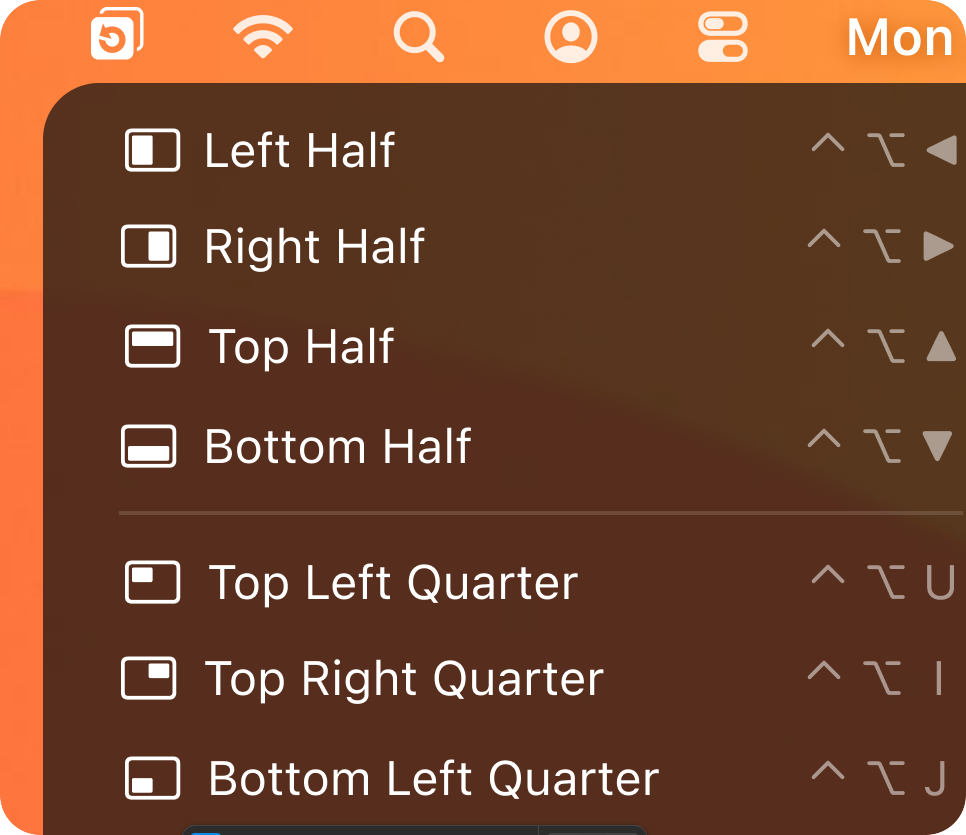
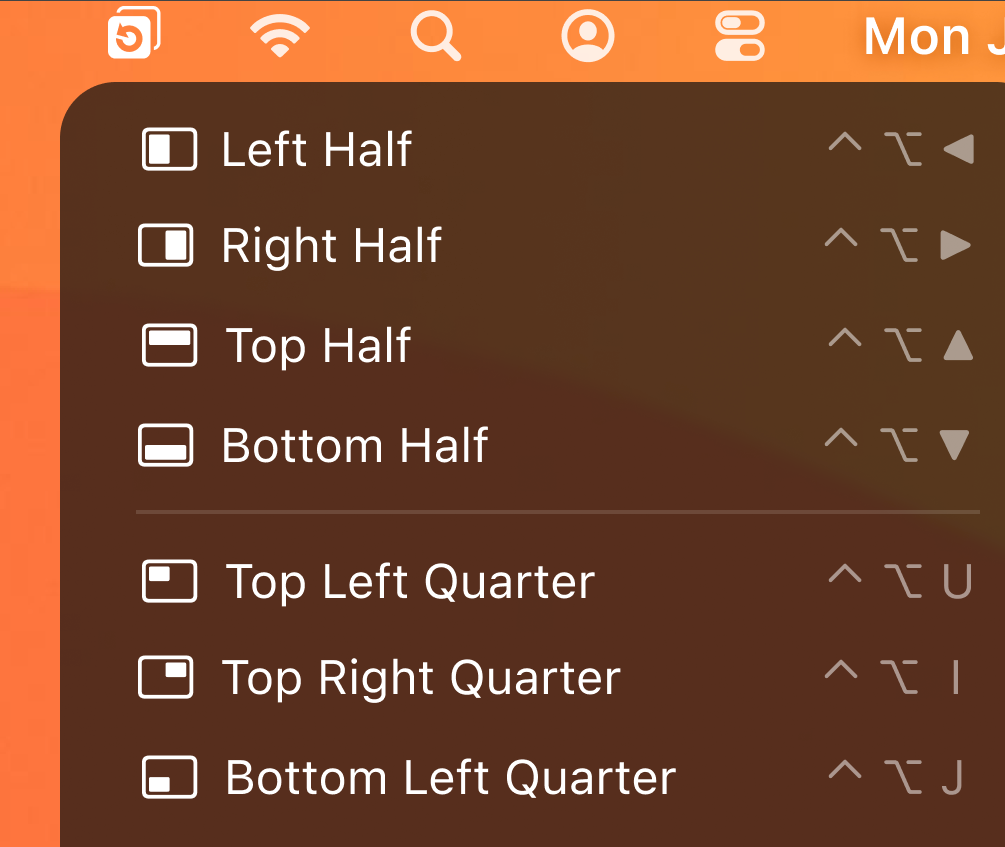
Refactor code structure for improved readability and maintainability

diff --git a/web/src/components/MenuBarSection.tsx b/web/src/components/MenuBarSection.tsx
@@ -7,7 +7,7 @@ export default function MenuBarSection() {
       eyebrow="Stays out of your way"
       heading={<>It lives in<br />your menu bar.</>}
       body="No dock clutter, no floating windows. Snapback sits quietly in your menu bar. Snap a window, switch a workspace, and get back to what you were doing — it never gets in the way."
-      imageSrc="/assets/hotkeys.png"
+      imageSrc="/assets/menu.png"
       imageAlt="Snapback menu bar dropdown"
     />
   );

diff --git a/web/src/components/FlexibilitySection.tsx b/web/src/components/FlexibilitySection.tsx
@@ -8,7 +8,7 @@ export default function FlexibilitySection() {
       eyebrow="Works your way"
       heading={<>Already have a<br />window manager?</>}
       body="Turn off snapping entirely and use Snapback just for workspaces. It plays well with whatever you already have — Magnet, Rectangle, or nothing at all."
-      imageSrc="/assets/hotkeys.png"
+      imageSrc="/assets/settings.png"
       imageAlt="General settings — disable window management"
     />
   );

diff --git a/web/src/components/SaveSection.tsx b/web/src/components/SaveSection.tsx
@@ -8,7 +8,7 @@ export default function SaveSection() {
       eyebrow="Save it"
       heading={<>Name it.<br />Shortcut it. Done.</>}
       body={`Give your layout a name — "Dev", "Design", "Deep work" — and assign a keyboard shortcut. Set it up once. Snapback remembers every window, every display, every position.`}
-      imageSrc="/assets/hotkeys.png"
+      imageSrc="/assets/save.png"
       imageAlt="Save Workspace dialog"
     />
   );

diff --git a/web/src/components/ShortcutsSection.tsx b/web/src/components/ShortcutsSection.tsx
@@ -7,7 +7,7 @@ export default function ShortcutsSection() {
       eyebrow="Workspace shortcuts"
       heading={<>Your whole day,<br />mapped to four keys.</>}
       body="Development. Design. Meetings. Focus. Each one a full window layout, one shortcut away. Your Mac catches up the moment you do."
-      imageSrc="/assets/hotkeys.png"
+      imageSrc="/assets/workspaces.png"
       imageAlt="Workspace shortcuts panel"
     />
   );

diff --git a/web/src/components/PreviewSection.tsx b/web/src/components/PreviewSection.tsx
@@ -9,7 +9,7 @@ export default function PreviewSection() {
       eyebrow="Preview it"
       heading={<>See exactly what<br />you're saving.</>}
       body="The preview maps your apps to their displays before you commit. Remove anything you don't want included. No surprises when you restore."
-      imageSrc="/assets/hotkeys.png"
+      imageSrc="/assets/preview.png"
       imageAlt="Workspace preview with displays"
     />
   );

diff --git a/web/src/components/SnapSection.tsx b/web/src/components/SnapSection.tsx
@@ -8,7 +8,7 @@ export default function SnapSection() {
       eyebrow="Window Snapping"
       heading={<>Every position,<br />one keystroke away.</>}
       body="Halves, thirds, quarters, corners. Every shortcut is remappable. Works exactly like you'd expect — until you need more."
-      imageSrc="/assets/hotkeys.png"
+      imageSrc="/assets/positions.png"
       imageAlt="Snapback hotkeys settings"
     />
   );

diff --git a/web/src/components/Animation.tsx b/web/src/components/Animation.tsx
@@ -110,7 +110,7 @@ export default function Animation() {
         <div 
           className="w-full h-full relative overflow-hidden select-none bg-zinc-900 shadow-2xl"
           style={{
-            backgroundImage: "url('/assets/bg.jpg')",
+            backgroundImage: "url('/assets/wallpaper.jpg')",
             backgroundSize: "cover",
             backgroundPosition: "center",
           }}
